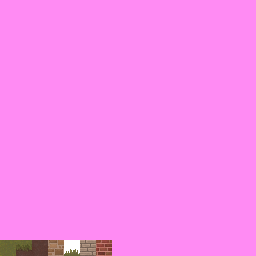
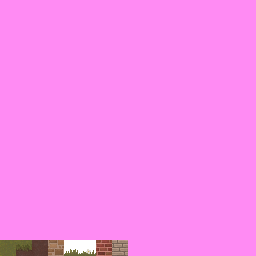
Tall grass now has a chance to be a flower instead

Changed region(s): [[0.4375, 0.9375, 0.5, 1.0], [0.3125, 0.9375, 0.375, 1.0]]

diff --git a/src/terrain.c b/src/terrain.c
@@ -276,9 +276,9 @@ static void append_block_to_mesh(EZArray *mesh_data, int *vertex_count, int x, i
 				});
 
 				// randomly place tall grass
-				if (r_hash(x * 108 + z * 4878) % 3 != 0) {
+				if (r_hash(x * 108 + z * 4878) % 2 != 0) {
 
-					helper_append_crossmodel(mesh_data, vertex_count, x, y, z, 4);
+					helper_append_crossmodel(mesh_data, vertex_count, x, y, z, 4 + (r_hash(x * y * z) % 17) / 16);
 				}
 			}
 			return;
